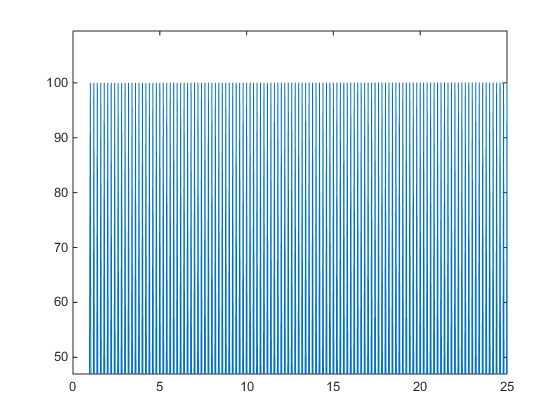
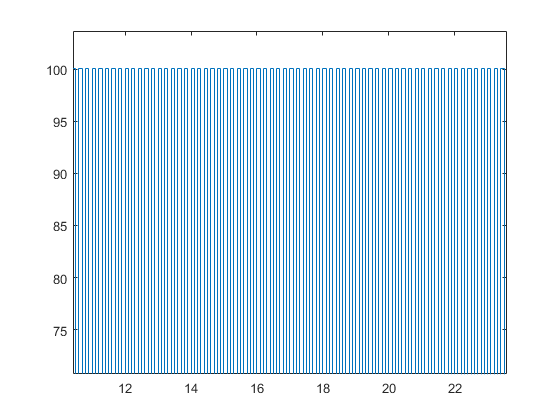
Początek sprawozdania i zrobienie modelu do serwa

diff --git a/lab77/Untitled.m b/lab77/Untitled.m
@@ -4,6 +4,23 @@ tp=0.1; k=100.0035;
 tp=1; k=10.0335;
 tp=5; k=2.2;
 tp=10; k=2;
+
 % III rzad
 % bez ekstrapolatora
 k=8;
+% z ekstrapolatorem nie jest stabilny dla k=8
+tp=0.01; k=8;
+tp=0.1; k=7.77;
+tp=1; k=6.25;
+tp=5; k=3;
+
+%%
+clear all; close all;
+tp=10; k=8
+sim('model')
+figure
+stairs(s1(:,1), s1(:,2))
+figure
+plot(w1(:,1), w1(:,2),w1(:,1), w1(:,3),w1(:,1), w1(:,4))
+
+
